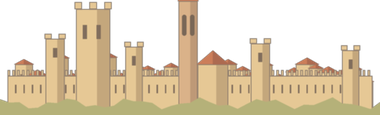
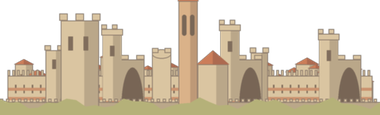
Talavera al fondo: muralla con torres albarranas, barbacana y granito con ladrillo
Claude-Session: https://claude.ai/code/session_01SHSGzxNeL5aLd7zb7HPUbE

Changed region(s): [[0.0, 0.0, 0.4921, 0.9391], [0.55, 0.1565, 1.0, 0.9391], [0.0, 0.7565, 0.1158, 0.8087]]

diff --git a/production/G12/tools/talavera_fondo.py b/production/G12/tools/talavera_fondo.py
@@ -8,7 +8,7 @@ def town(w,h,seed,haze,HILL):
     """Capa RGBA (w x h) con el perfil de la villa: cerca con almenas, torres albarranas, alcázar, campanario de Santa María y casas."""
     rnd=random.Random(seed); W,H=w*SS,h*SS
     im=Image.new('RGBA',(W,H),(0,0,0,0)); d=ImageDraw.Draw(im)
-    wall=(228,196,142); wallsh=(188,156,112); roof=(196,106,70); roofsh=(160,84,60); ink=(92,70,52,200)
+    wall=(214,192,156); wallsh=(176,156,128); brick=(196,132,96); roof=(196,106,70); roofsh=(160,84,60); ink=(92,70,52,200)
     base=int(H*0.96); lw=max(2,int(SS*0.9))
     def box(x0,y0,x1,y1,c,sh=None):
         d.rectangle([x0,y0,x1,y1],fill=c+(255,),outline=ink,width=lw)
@@ -32,12 +32,36 @@ def town(w,h,seed,haze,HILL):
     box(W*0.02,wy,W*0.98,base,wall,None); merlons(W*0.02,W*0.98,wy,int(w/5)*2,H*0.05)
     for i in range(int(w/9)):   # saeteras
         px=W*0.04+i*(W*0.92)/int(w/9); d.rectangle([px,wy+H*0.08,px+SS*1.2,wy+H*0.15],fill=(90,68,52,230))
-    for tx,th,tw in ((0.12,0.62,0.05),(0.33,0.55,0.045),(0.66,0.58,0.05),(0.90,0.52,0.045)):
+    # bandas de ladrillo en el lienzo (mampostería de granito con hiladas de ladrillo)
+    for k in (0.35,0.62):
+        d.rectangle([W*0.02+lw,wy+(base-wy)*k,W*0.98-lw,wy+(base-wy)*k+H*0.025],fill=brick+(255,))
+    # torres macizas del lienzo (cuadradas) y una semicircular
+    for tx,th,tw in ((0.12,0.52,0.045),(0.66,0.50,0.045)):
         x0=W*tx; x1=x0+W*tw; yt=base-H*th
         box(x0,yt,x1,base,wall,wallsh); merlons(x0-SS,x1+SS,yt,3,H*0.045)
         d.rectangle([x0+(x1-x0)*0.4,yt+H*0.08,x0+(x1-x0)*0.6,yt+H*0.16],fill=(90,68,52,230))
+    sx0=W*0.40; sx1=sx0+W*0.05; syt=base-H*0.50
+    d.rectangle([sx0,syt,sx1,base],fill=wall+(255,),outline=ink,width=lw); d.ellipse([sx0,syt-H*0.03,sx1,syt+H*0.05],fill=wall+(255,),outline=ink,width=lw)
+    merlons(sx0,sx1,syt,3,H*0.04)
+    # TORRES ALBARRANAS: exentas, adelantadas al lienzo y unidas a él por un gran arco (en Talavera hubo 17; las ochavadas se ven con caras)
+    for tx,th in ((0.27,0.66),(0.58,0.70),(0.84,0.62)):
+        x0=W*tx; x1=x0+W*0.05; yt=base-H*th; fy=base+H*0.02
+        # arco de unión con el lienzo (pasadizo sobre un gran arco, detrás de la torre)
+        ax0=x1-SS; ax1=x1+W*0.06; ay=base-H*0.44
+        d.rectangle([ax0,ay,ax1,base],fill=wallsh+(255,),outline=ink,width=lw)
+        d.pieslice([ax0+SS,ay+H*0.07,ax1-SS,base+H*0.30],180,360,fill=(84,64,50,235))
+        merlons(ax0,ax1,ay,3,H*0.04)
+        # torre ochavada (caras: luz/sombra) exenta, algo más alta y más ancha arriba
+        d.polygon([(x0,fy),(x0,yt),(x1,yt),(x1,fy)],fill=wall+(255,),outline=ink)
+        d.polygon([(x0+(x1-x0)*0.55,fy),(x0+(x1-x0)*0.55,yt),(x1,yt),(x1,fy)],fill=wallsh+(255,))
+        d.rectangle([x0-SS*1.2,yt-H*0.045,x1+SS*1.2,yt+H*0.01],fill=wall+(255,),outline=ink,width=lw)   # coronamiento volado
+        merlons(x0-SS*1.2,x1+SS*1.2,yt-H*0.045,4,H*0.04)
+        d.rectangle([x0+(x1-x0)*0.4,yt+H*0.10,x0+(x1-x0)*0.62,yt+H*0.19],fill=(90,68,52,230))
+        d.rectangle([x0,fy-H*0.10,x1,fy],fill=brick+(255,))   # zócalo de ladrillo
+    # barbacana: antemuro bajo almenado por delante del lienzo
+    d.rectangle([W*0.0,base-H*0.07,W*1.0,base+H*0.04],fill=wallsh+(255,),outline=ink,width=lw); merlons(0,W,base-H*0.07,int(w/6)*2,H*0.03)
     # alcázar: gran torre del homenaje a la izquierda
-    ax0=W*0.20; ax1=ax0+W*0.09; ay=base-H*0.88
+    ax0=W*0.16; ax1=ax0+W*0.10; ay=base-H*0.78
     box(ax0,ay,ax1,base,wall,wallsh); merlons(ax0-SS*1.5,ax1+SS*1.5,ay,5,H*0.06)
     for k in range(2): d.rectangle([ax0+(ax1-ax0)*(0.2+0.4*k),ay+H*0.14,ax0+(ax1-ax0)*(0.32+0.4*k),ay+H*0.26],fill=(90,68,52,230))
     # Santa María la Mayor: campanario cuadrado con vanos y chapitel bajo

diff --git a/docs/TALAVERA_1248_FONDO.md b/docs/TALAVERA_1248_FONDO.md
@@ -1,7 +1,8 @@
 # Talavera de 1248 al fondo (puente y aceña)
+**Muralla (v2, 7 nov):** según el tríptico de la muralla de El Salvador (La Voz del Tajo) y mycityhunt: lienzo de mampostería/sillería de granito con tongadas de mortero y ladrillo (tono gris-ocre), torres cuadradas, semicirculares y **albarranas** (exentas, proyectadas al exterior y unidas al lienzo por un gran arco; en El Salvador una apoya en torre ochavada; se citan 17, 8 conservadas), **barbacana** (antemuro bajo almenado) y recinto de La Villa (s. IX-X). Aviso de rigor: las fuentes discrepan en la fecha de las albarranas (s. XIII frente a s. XIV); se toman como s. XIII/de época, es hipótesis artística. Fuentes: https://www.lavozdeltajo.com/adjuntos/71435/Triptico_muralla_El_Salvador_Talavera.pdf y https://www.mycityhunt.co.uk/cities/talavera-de-la-reina-es-10856/poi/walls-of-talavera-de-la-reina-38000
 Hecho (provisional, procedural): `art/escenarios/nuevos/puente_talavera.jpg` y `acena_talavera.jpg` (script `production/G12/tools/talavera_fondo.py`, capas sueltas en `production/G12/walkmaps/talavera_capa_*.png`). Villa en la lejanía con bruma: cerca almenada con torres, alcázar a la izquierda, campanario cuadrado de Santa María y casas de tejado rojo.
 
-Rigor histórico (lo que sí / lo que NO): sí cerca con torres (también albarranas), alcázar, Santa María la Mayor con campanario bajo y cuadrado, casas de adobe/ladrillo con teja; NO la torre-chapitel gótica alta ni la cúpula de las pinturas de ciudades posteriores, ni el puente de arcos del s. XV (en 1248 el Tajo se cruza en barca, coherente con el juego). Es una hipótesis artística, no un plano.
+Rigor histórico (lo que sí / lo que NO): sí cerca con torres y albarranas unidas por arco, barbacana, alcázar, Santa María la Mayor con campanario bajo y cuadrado, casas de adobe/ladrillo con teja; NO la torre-chapitel gótica alta ni la cúpula de las pinturas de ciudades posteriores, ni el puente de arcos del s. XV (en 1248 el Tajo se cruza en barca, coherente con el juego). Es una hipótesis artística, no un plano.
 
 ## Prompt para generar la versión definitiva (misma acuarela con tinta que los fondos)
-«Misma ilustración, mismo encuadre y estilo, sin cambiar nada del primer plano: añade en la lejanía, en la loma del horizonte, la ciudad amurallada de Talavera de la Reina en 1248, vista desde lejos y algo velada por la bruma: lienzo de muralla almenada de piedra clara con cuatro o cinco torres cuadradas, un alcázar con torre del homenaje a la izquierda, un campanario cuadrado y bajo de iglesia con tejado a cuatro aguas y casas de tejado rojo asomando sobre la muralla. Sin torres góticas ni cúpulas barrocas ni puentes de arcos. Acuarela con contorno fino de tinta marrón, colores suaves y desvaídos por la distancia, sin texto.»
+«Misma ilustración, mismo encuadre y estilo, sin cambiar nada del primer plano: añade en la lejanía, en la loma del horizonte, la ciudad amurallada de Talavera de la Reina en 1248, vista desde lejos y algo velada por la bruma: lienzo de muralla almenada de piedra clara con cuatro o cinco torres cuadradas y tres torres albarranas exentas unidas al muro por un gran arco, con un antemuro bajo almenado delante, lienzo de granito gris-ocre con hiladas de ladrillo, un alcázar con torre del homenaje a la izquierda, un campanario cuadrado y bajo de iglesia con tejado a cuatro aguas y casas de tejado rojo asomando sobre la muralla. Sin torres góticas ni cúpulas barrocas ni puentes de arcos. Acuarela con contorno fino de tinta marrón, colores suaves y desvaídos por la distancia, sin texto.»
